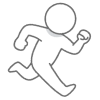
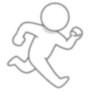
player

diff --git a/scenes/game/player.rb b/scenes/game/player.rb
@@ -3,15 +3,44 @@ class Player < CPCircle
   # 衝突判定区分を設定
   COLLISION_TYPE = 1
 
+  #def initialize
+  #  super
+  #  @hp = 100
+
+  #end
+
   # 1フレーム分の移動ロジック
   # キーボードの左右とスペースキーを受け付け、それぞれの方向に加速度を与える
   # 左右キーは押しっ放しに対応する。
 
+  def initialize(x,y,r,mass,e = 0, u = 0)
+
+    @images= {
+      right: Image.load("images/player_run1.png"),
+      left: Image.load("images/player_run2.png"),
+      jump: Image.load("images/player_jump.png")
+    }
+
+    @current_image = @images[:right]
+    super(x,y,r,mass,@current_image,e,u)
+  end
+
   def move
+    @current_image = @images[:right] if Input.key_push?(K_RIGHT)
+    @current_image = @images[:left] if Input.key_push?(K_LEFT)
+    @current_image = @images[:jump] if Input.key_push?(K_DOWN)
+
     apply_force(30, 0) if Input.key_down?(K_RIGHT)
     apply_force(-30, 0) if Input.key_down?(K_LEFT)
-    apply_force(0, -5000) if Input.key_push?(K_UP)
-    apply_force(0, 500) if Input.key_down?(K_DOWN)
+    apply_force(0, 100) if Input.key_down?(K_DOWN)
+    if Input.key_push?(K_UP)
+      apply_force(0, -750)
+      @current_image = @images[:jump]
+    end
+  end
+
+  def draw
+    Window.draw(@body.p.x - @r, @body.p.y - @r, @current_image )
   end
 
 end

diff --git a/main.rb b/main.rb
@@ -14,14 +14,11 @@ require_relative 'lib/cp/cp_static_box'
 
 require_relative 'scenes/game/player'
 
-
 require_relative 'scenes/game/enemy.rb'
 require_relative 'scenes/game/enemies/elephpant.rb'
 require_relative 'scenes/game/enemies/dlang.rb'
 require_relative 'scenes/game/enemies/gopher.rb'
 require_relative 'scenes/game/enemies/python.rb'
-
-
 
 Window.width = 900
 Window.height = 650
@@ -36,22 +33,21 @@ Window.loop do
   @space = CP::Space.new
   @space.gravity = CP::Vec2.new(0, 150)
 
-     
   Window.draw(0, 0, @bg_img)
   @walls = CPBase.walls
   @walls << CPStaticBox.new(0, 600, 900, 620)
   @walls << CPStaticBox.new(0, 620, 900, 640)
   @walls << CPStaticBox.new(0, 640, 900, 650)
-    
+
   @walls << CPStaticBox.new(180, 480, 360, 500)
   @walls << CPStaticBox.new(540, 480, 720, 500)
   @walls << CPStaticBox.new(360, 200, 540, 220)
-      
+
   #@space.add(@current)
   @walls.each do |wall|
     @space.add(wall)
   end
-  
+
   @space.step(1/60.0)
     break if Input.key_push?(K_ESCAPE)
     Scene.play

diff --git a/lib/cp/cp_circle.rb b/lib/cp/cp_circle.rb
@@ -2,7 +2,7 @@ class CPCircle < CPBase
   COLLISION_TYPE = 0
   attr_accessor :body, :shape
 
-  def initialize(x, y, r, mass, color, image = nil, e = 0.01, u = 0.01)
+  def initialize(x, y, r, mass, color, image = nil, e = 0, u = 0)
     moment = CP::moment_for_circle(mass, 0, r, CP::Vec2.new(0, 0))
     @body = CP::Body.new(mass, moment)
     @body.p = CP::Vec2.new(x + r, y + r)
@@ -16,6 +16,6 @@ class CPCircle < CPBase
   end
 
   def draw
-    Window.draw_rot(@body.p.x - @r, @body.p.y - @r, @image, @body.a )
+    Window.draw(@body.p.x - @r, @body.p.y - @r, @image)
   end
 end

diff --git a/lib/cp/cp_static_box.rb b/lib/cp/cp_static_box.rb
@@ -1,6 +1,7 @@
 # 静的BOX
 # 重力の影響を受けない矩形オブジェクト
 class CPStaticBox < CPBase
+  COLLISION_TYPE=9
   attr_accessor :body, :shape
 
   def initialize(x1, y1, x2, y2, image = nil, e = 0.8, u = 0.8)
@@ -16,6 +17,7 @@ class CPStaticBox < CPBase
     ((@image.width / block.width) + 1).times do |i|
       @image.draw(block.width * i, 0, block)
     end
+    @shape.collision_type = self.class::COLLISION_TYPE
     @x, @y = x1, y1
     shape.e = e
     shape.u = u

diff --git a/scenes/game/director.rb b/scenes/game/director.rb
@@ -8,10 +8,10 @@ module Game
     def initialize
       # 物理演算空間を作成
       @space = CP::Space.new
-      @space.gravity = CP::Vec2.new(0, 500)
+      @space.gravity = CP::Vec2.new(0, 2000)
       CPBase.generate_walls(@space)
-      image=Image.load("images/player_stay.png")
-      player = Player.new(400, 500, 25, 10, C_BLUE,image)
+
+      player = Player.new(400, 500, 45, 1, C_BLUE)
       @space.add(player)
       @objects = [player]
     end

diff --git a/lib/cp/cp_base.rb b/lib/cp/cp_base.rb
@@ -14,7 +14,7 @@ class CP::Space
 end
 
 class CPBase
-  def self.generate_walls(space, width = 800, height = 600, wall_width = 20)
+  def self.generate_walls(space, width = 900, height = 650, wall_width = 20)
     walls = []
     walls << CPStaticBox.new(0, height, width, height + wall_width)
     walls << CPStaticBox.new(-wall_width, 0, 0, height)
